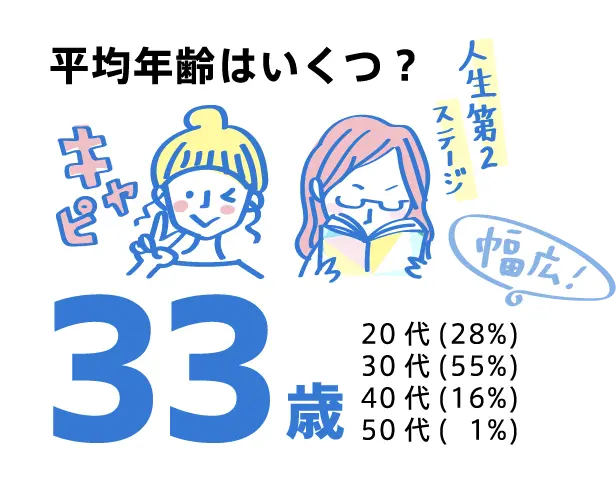
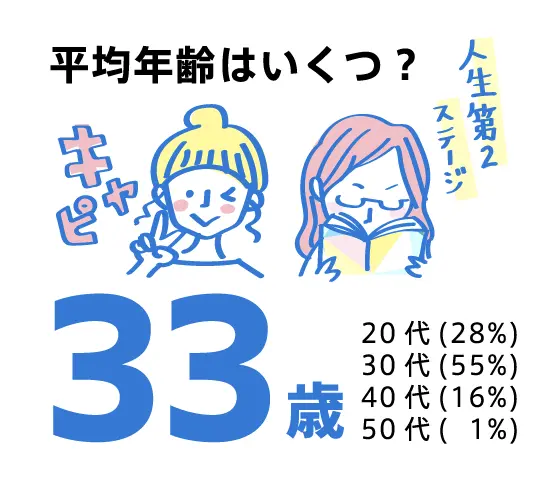
最初の質問実装

Changed region(s): [[0.061, 0.062, 1.0, 0.9298], [0.9461, 0.5269, 0.9767, 0.5579]]

diff --git a/style.css b/style.css
@@ -8074,21 +8074,50 @@ span.online-lesson__stepsSmall {
   background-color: #ffffbe;
 }
 
+.data__people {
+}
+
 .data__peopleList {
+  display: grid;
+  grid-template-rows: 20% 13.8% 20% 21%;
+  grid-template-columns: 26.3% 26.3% 1fr;
+  grid-row-gap: 3.5%;
+  grid-column-gap: 5%;
   width: 74%;
   max-width: 780px;
-  margin: 5vw auto 0;
+  margin: 40px auto 0;
 }
 
-.data__peopleItemWrapper {
-  display: flex;
+.data__peopleItem {
+  position: relative;
 }
 
-.data__peopleItem.-overhang {
-  margin-right: -3vw;
-  margin-left: 3.5vw;
+.data__peopleItem:first-child,
+.data__peopleItem:nth-child(6) {
+  grid-column: 1 / 3;
 }
 
-.data__peropleItemBlock.-doubleCol {
-  display: flex;
+.data__peopleItem:nth-child(7) {
+  grid-column: 1 / 4;
+  height: 26vw;
+  max-height: 274px;
+}
+
+.data__peopleItem:nth-child(7) .data__questionPicture {
+  position: absolute;
+  top: -36px;
+}
+
+.data__question2.speechBubble {
+  position: absolute;
+  top: 44%;
+  right: -10%;
+  width: 29%;
+}
+
+.data__question6.speechBubble {
+  position: absolute;
+  top: 32%;
+  left: -9%;
+  width: 18%;
 }

diff --git a/page-data.php b/page-data.php
@@ -59,64 +59,58 @@ get_header();
         </div>
       </div>
       <div class="data__peopleList">
-        <div class="data__peopleItemWrapper">
-          <div class="data__peopleItem">
-            <picture class="data__questionPicture">
-              <source srcset="<?php echo get_template_directory_uri(); ?>/assets/img/data/question01_1-sp.webp" media="(max-width: 768px)" type="image/webp">
-              <source srcset="<?php echo get_template_directory_uri(); ?>/assets/img/data/question01_1.webp" media="(min-width: 769px)" type="image/webp">
-              <source srcset="<?php echo get_template_directory_uri(); ?>/assets/img/data/question01_1-sp.png" media="(max-width: 768px)">
-              <img src="<?php echo get_template_directory_uri(); ?>/assets/img/data/question01_1.png" alt="居住地はどこですか？">
-            </picture>
-          </div>
-          <div class="data__peopleItem -overhang">
-            <picture class="data__questionPicture">
-              <source srcset="<?php echo get_template_directory_uri(); ?>/assets/img/data/question01_2-sp.webp" media="(max-width: 768px)" type="image/webp">
-              <source srcset="<?php echo get_template_directory_uri(); ?>/assets/img/data/question01_2.webp" media="(min-width: 769px)" type="image/webp">
-              <source srcset="<?php echo get_template_directory_uri(); ?>/assets/img/data/question01_2-sp.png" media="(max-width: 768px)">
-              <img src="<?php echo get_template_directory_uri(); ?>/assets/img/data/question01_2.png" alt="平均年齢はいくつ？">
-            </picture>
-          </div>
-        </div>
-        <div class="data__peopleItemWrapper">
-          <div class="data__peropleItemBlock">
-            <div class="data__peropleItemBlock -doubleCol">
-              <div class="data__peopleItem">
-                <picture class="data__questionPicture">
-                  <source srcset="<?php echo get_template_directory_uri(); ?>/assets/img/data/question01_3-sp.webp" media="(max-width: 768px)" type="image/webp">
-                  <source srcset="<?php echo get_template_directory_uri(); ?>/assets/img/data/question01_3.webp" media="(min-width: 769px)" type="image/webp">
-                  <source srcset="<?php echo get_template_directory_uri(); ?>/assets/img/data/question01_3-sp.png" media="(max-width: 768px)">
-                  <img src="<?php echo get_template_directory_uri(); ?>/assets/img/data/question01_3.png" alt="婚姻状況">
-                </picture>
-              </div>
-              <div class="data__peopleItem">
-                <picture class="data__questionPicture">
-                  <source srcset="<?php echo get_template_directory_uri(); ?>/assets/img/data/question01_4-sp.webp" media="(max-width: 768px)" type="image/webp">
-                  <source srcset="<?php echo get_template_directory_uri(); ?>/assets/img/data/question01_4.webp" media="(min-width: 769px)" type="image/webp">
-                  <source srcset="<?php echo get_template_directory_uri(); ?>/assets/img/data/question01_4-sp.png" media="(max-width: 768px)">
-                  <img src="<?php echo get_template_directory_uri(); ?>/assets/img/data/question01_4.png" alt="雇用形態">
-                </picture>
-              </div>
-            </div>
-            <div class="data__peopleItem">
-              <picture class="data__questionPicture">
-                <source srcset="<?php echo get_template_directory_uri(); ?>/assets/img/data/question01_6-sp.webp" media="(max-width: 768px)" type="image/webp">
-                <source srcset="<?php echo get_template_directory_uri(); ?>/assets/img/data/question01_6.webp" media="(min-width: 769px)" type="image/webp">
-                <source srcset="<?php echo get_template_directory_uri(); ?>/assets/img/data/question01_6-sp.png" media="(max-width: 768px)">
-                <img src="<?php echo get_template_directory_uri(); ?>/assets/img/data/question01_6.png" alt="「脳トレ」オンラインレッスンに参加してよかったことは何ですか？">
-              </picture>
-            </div>
-          </div>
-          <div class="data__peopleItem">
-            <picture class="data__questionPicture">
-              <source srcset="<?php echo get_template_directory_uri(); ?>/assets/img/data/question01_5-sp.webp" media="(max-width: 768px)" type="image/webp">
-              <source srcset="<?php echo get_template_directory_uri(); ?>/assets/img/data/question01_5.webp" media="(min-width: 769px)" type="image/webp">
-              <source srcset="<?php echo get_template_directory_uri(); ?>/assets/img/data/question01_5-sp.png" media="(max-width: 768px)">
-              <img src="<?php echo get_template_directory_uri(); ?>/assets/img/data/question01_5.png" alt="「脳トレ」オンラインレッスンに参加したきっかけは？">
-            </picture>
-          </div>
+        <div class="data__peopleItem">
+          <picture class="data__questionPicture">
+            <source srcset="<?php echo get_template_directory_uri(); ?>/assets/img/data/question01_1-sp.webp" media="(max-width: 768px)" type="image/webp">
+            <source srcset="<?php echo get_template_directory_uri(); ?>/assets/img/data/question01_1.webp" media="(min-width: 769px)" type="image/webp">
+            <source srcset="<?php echo get_template_directory_uri(); ?>/assets/img/data/question01_1-sp.png" media="(max-width: 768px)">
+            <img src="<?php echo get_template_directory_uri(); ?>/assets/img/data/question01_1.png" alt="居住地はどこですか？">
+          </picture>
         </div>
         <div class="data__peopleItem">
-          <picture class="data__subheading">
+          <picture class="data__questionPicture">
+            <source srcset="<?php echo get_template_directory_uri(); ?>/assets/img/data/question01_2-sp.webp" media="(max-width: 768px)" type="image/webp">
+            <source srcset="<?php echo get_template_directory_uri(); ?>/assets/img/data/question01_2.webp" media="(min-width: 769px)" type="image/webp">
+            <source srcset="<?php echo get_template_directory_uri(); ?>/assets/img/data/question01_2-sp.png" media="(max-width: 768px)">
+            <img src="<?php echo get_template_directory_uri(); ?>/assets/img/data/question01_2.png" alt="平均年齢はいくつ？">
+          </picture>
+          <img src="<?php echo get_template_directory_uri(); ?>/assets/img/data/question01_2_speechBubble.png" alt="幅広" class="data__question2 speechBubble">
+        </div>
+        <div class="data__peopleItem">
+          <picture class="data__questionPicture">
+            <source srcset="<?php echo get_template_directory_uri(); ?>/assets/img/data/question01_3-sp.webp" media="(max-width: 768px)" type="image/webp">
+            <source srcset="<?php echo get_template_directory_uri(); ?>/assets/img/data/question01_3.webp" media="(min-width: 769px)" type="image/webp">
+            <source srcset="<?php echo get_template_directory_uri(); ?>/assets/img/data/question01_3-sp.png" media="(max-width: 768px)">
+            <img src="<?php echo get_template_directory_uri(); ?>/assets/img/data/question01_3.png" alt="婚姻状況">
+          </picture>
+        </div>
+        <div class="data__peopleItem">
+          <picture class="data__questionPicture">
+            <source srcset="<?php echo get_template_directory_uri(); ?>/assets/img/data/question01_4-sp.webp" media="(max-width: 768px)" type="image/webp">
+            <source srcset="<?php echo get_template_directory_uri(); ?>/assets/img/data/question01_4.webp" media="(min-width: 769px)" type="image/webp">
+            <source srcset="<?php echo get_template_directory_uri(); ?>/assets/img/data/question01_4-sp.png" media="(max-width: 768px)">
+            <img src="<?php echo get_template_directory_uri(); ?>/assets/img/data/question01_4.png" alt="雇用形態">
+          </picture>
+        </div>
+        <div class="data__peopleItem">
+          <picture class="data__questionPicture">
+            <source srcset="<?php echo get_template_directory_uri(); ?>/assets/img/data/question01_5-sp.webp" media="(max-width: 768px)" type="image/webp">
+            <source srcset="<?php echo get_template_directory_uri(); ?>/assets/img/data/question01_5.webp" media="(min-width: 769px)" type="image/webp">
+            <source srcset="<?php echo get_template_directory_uri(); ?>/assets/img/data/question01_5-sp.png" media="(max-width: 768px)">
+            <img src="<?php echo get_template_directory_uri(); ?>/assets/img/data/question01_5.png" alt="「脳トレ」オンラインレッスンに参加したきっかけは？">
+          </picture>
+        </div>
+        <div class="data__peopleItem">
+          <picture class="data__questionPicture">
+            <source srcset="<?php echo get_template_directory_uri(); ?>/assets/img/data/question01_6-sp.webp" media="(max-width: 768px)" type="image/webp">
+            <source srcset="<?php echo get_template_directory_uri(); ?>/assets/img/data/question01_6.webp" media="(min-width: 769px)" type="image/webp">
+            <source srcset="<?php echo get_template_directory_uri(); ?>/assets/img/data/question01_6-sp.png" media="(max-width: 768px)">
+            <img src="<?php echo get_template_directory_uri(); ?>/assets/img/data/question01_6.png" alt="「脳トレ」オンラインレッスンに参加してよかったことは何ですか？">
+          </picture>
+          <img src="<?php echo get_template_directory_uri(); ?>/assets/img/data/question01_6_speechBubble.png" alt="1位" class="data__question6 speechBubble">
+        </div>
+        <div class="data__peopleItem">
+          <picture class="data__questionPicture">
             <source srcset="<?php echo get_template_directory_uri(); ?>/assets/img/data/question01_7-sp.webp" media="(max-width: 768px)" type="image/webp">
             <source srcset="<?php echo get_template_directory_uri(); ?>/assets/img/data/question01_7.webp" media="(min-width: 769px)" type="image/webp">
             <source srcset="<?php echo get_template_directory_uri(); ?>/assets/img/data/question01_7-sp.png" media="(max-width: 768px)">
